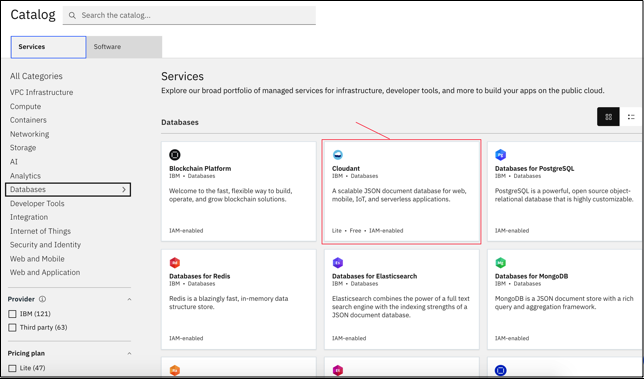
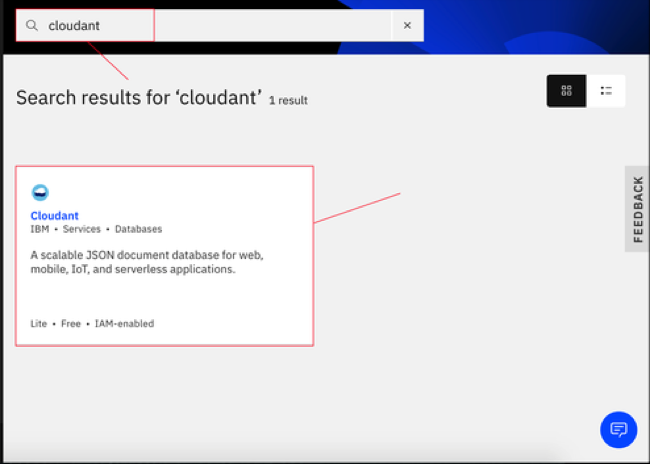
Update the create service tutorial.

diff --git a/tutorials/create_service.md b/tutorials/create_service.md
@@ -2,7 +2,7 @@
 
 copyright:
   years: 2017, 2020
-lastupdated: "2020-04-23"
+lastupdated: "2020-05-14"
 
 keywords: create service instance, service credentials, locate service credentials
 
@@ -43,7 +43,7 @@ to work with the database.
 
     ![{{site.data.keyword.cloud_notm}} dashboard](images/img0001.png){: caption="Figure 1. {{site.data.keyword.cloud_notm}} dashboard" caption-side="bottom"}
 
-2.  Click `Databases` in the left navigation and `Cloudant` from the list of database       services:
+2.  Type `Cloudant` in the Search bar and click to open it:
 
     ![{{site.data.keyword.cloud_notm}} database services](images/img0003.png){: caption="Figure 2. {{site.data.keyword.cloud_notm}} database services" caption-side="bottom"}
 
@@ -105,20 +105,20 @@ Service credentials are valuable. If anyone or any application has access to the
 {{site.data.keyword.cloudant_short_notm}} has two authentication methods available at provisioning time, either `Use only IAM` or `Use both legacy credentials and IAM`. You can see the details about your legacy credentials only if the `Use both legacy credentials and IAM` authentication method is chosen. The credentials display on the Service credentials tab for your instance. For more information, see the [IAM guide](/docs/Cloudant?topic=cloudant-ibm-cloud-identity-and-access-management-iam-#ibm-cloud-identity-and-access-management-iam-)
  and [legacy authentication](/docs/Cloudant?topic=cloudant-authentication#authentication) document for details about using either style of authentication.
 
-The service credentials include the following fields:
+The service credentials include the following fields, as well as designating the fields that only display if you select the `Use both legacy credentials and IAM` option:
 
-Field | Purpose
-------|--------
-`username` | The service name of the service instance user in the URL. This field also serves as the admin user name. 
-`password` | The legacy credentials password that is required for applications to access the service instance. This field displays only if the `Use both legacy credentials and IAM` option is chosen. 
-`host` | The host name that is used by applications to locate the service instance. This field displays only if the `Use both legacy credentials and IAM` option is chosen. 
-`port` | The HTTPS port number for accessing the service instance on the host. It's 443 as only HTTPS access is allowed by {{site.data.keyword.cloudant_short_notm}}. This field displays only if the `Use both legacy credentials and IAM` option is chosen. 
-`url`	| The HTTPS URL to access the {{site.data.keyword.cloudant_short_notm}} instance. If the `Use both legacy credentials and IAM` option is chosen, it also includes the embedded legacy user name and password. 
-`apikey` | The IAM API key. 
-`iam_apikey_description` | Description of the IAM API key. 
-`iam_apikey_name` | ID of the IAM API key.
-`iam_role_crn` | The IAM role that the IAM API key has.
-`iam_serviceid_crn`	| The CRN of the service ID.
+Field | Purpose | Legacy-auth enabled
+------|---------|--------------------
+`username` | The service name of the service instance user in the URL. This field also serves as the admin user name. | 
+`password` | The legacy credentials password that is required for applications to access the service instance. | X
+`host` | The host name that is used by applications to locate the service instance. | X
+`port` | The HTTPS port number for accessing the service instance on the host. It's 443 as only HTTPS access is allowed by {{site.data.keyword.cloudant_short_notm}}. | X
+`url`	| The HTTPS URL to access the {{site.data.keyword.cloudant_short_notm}} instance. | X (If the `Use both legacy credentials and IAM` option is chosen, it also includes the embedded legacy user name and password.) 
+`apikey` | The IAM API key. | 
+`iam_apikey_description` | Description of the IAM API key. | 
+`iam_apikey_name` | ID of the IAM API key. | 
+`iam_role_crn` | The IAM role that the IAM API key has. | 
+`iam_serviceid_crn`	| The CRN of the service ID. | X
 {: caption="Table 1. Service credential fields" caption-side="top"}
 
 To create an application that can access your service instance, you need these credentials.
